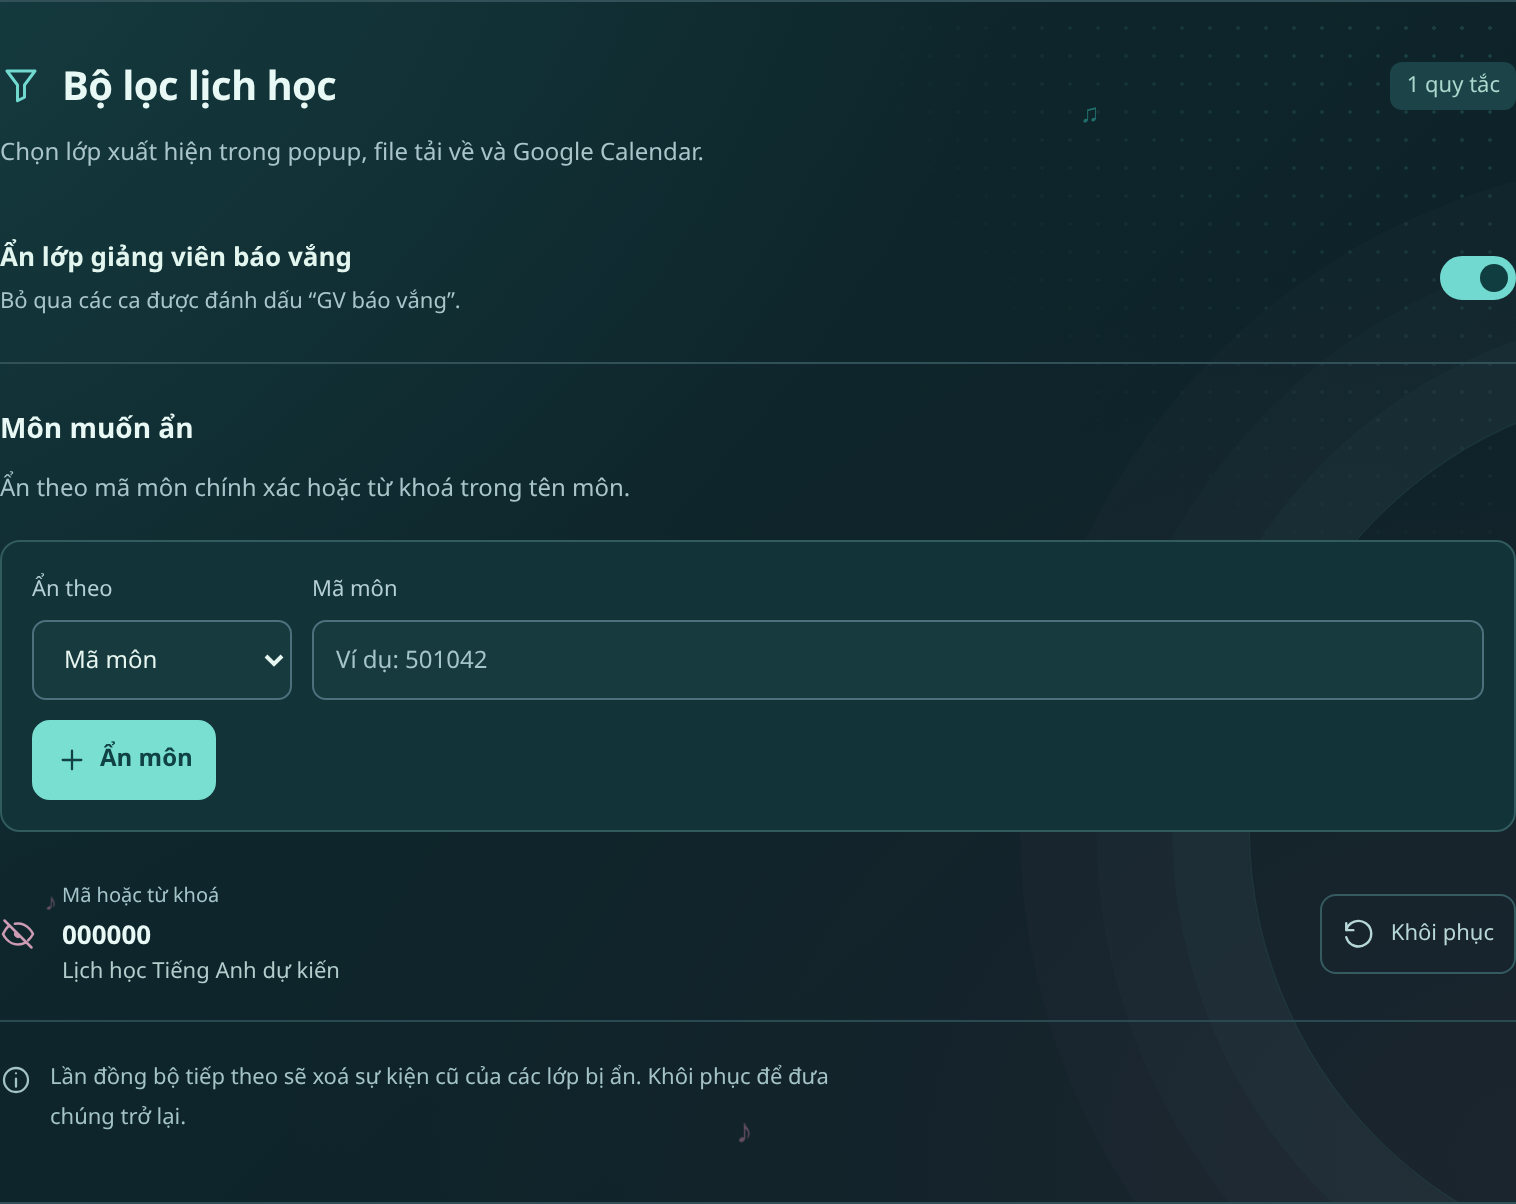
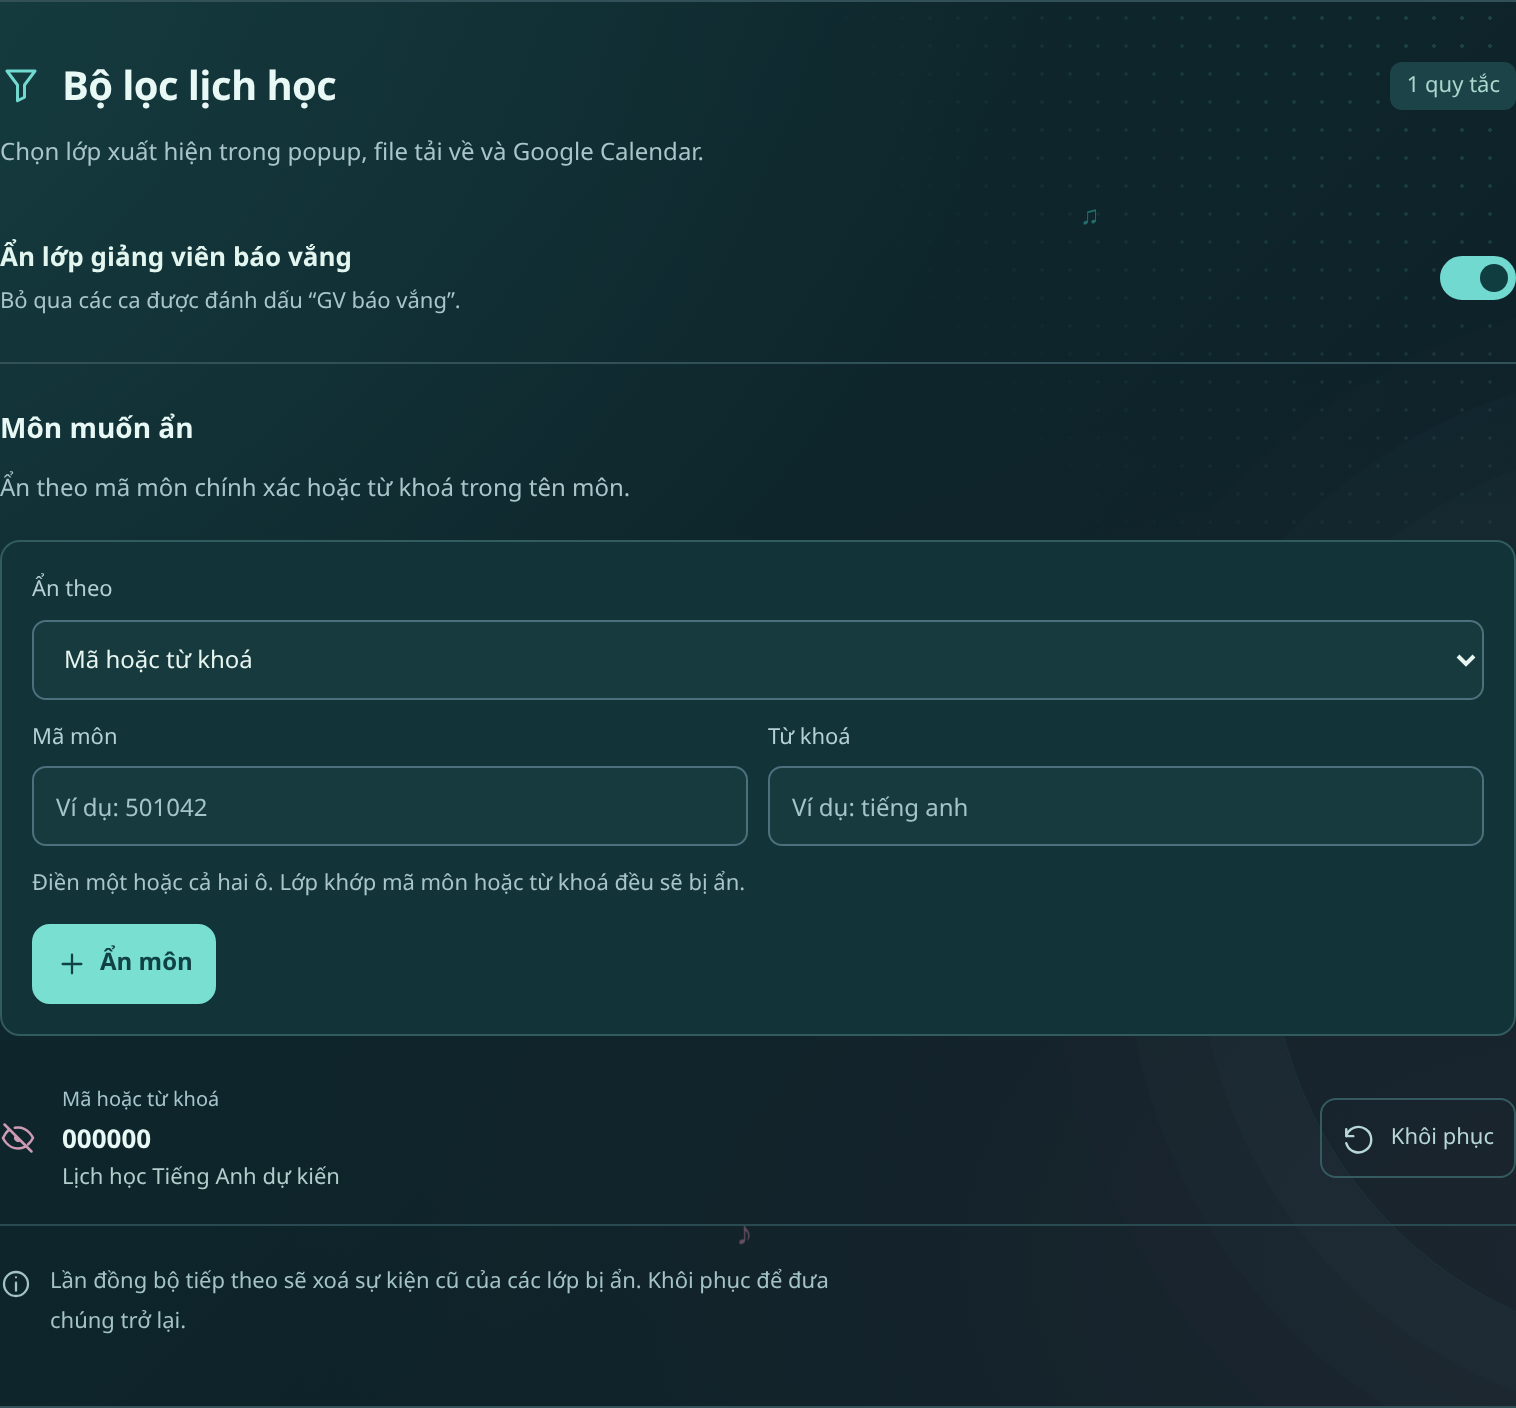
feat: separate code and keyword inputs in combined filter mode

diff --git a/options.js b/options.js
@@ -248,22 +248,38 @@ $('addRow').addEventListener('click', () => {
 });
 
 function updateFilterField() {
-  const code = $('filterType').value === 'code';
-  $('filterMatchLabel').textContent = tr($('filterType').value === 'legacy' ? 'Mã hoặc từ khoá' : code ? 'Mã môn' : 'Tên chứa');
-  $('filterMatch').placeholder = tr($('filterType').value === 'legacy' ? 'Ví dụ: 501042 hoặc tiếng anh' : code ? 'Ví dụ: 501042' : 'Ví dụ: tiếng anh');
+  const mode = $('filterType').value, combined = mode === 'legacy';
+  const code = mode !== 'name';
+  $('filterForm').dataset.mode = mode;
+  $('filterMatchLabel').textContent = tr(code ? 'Mã môn' : 'Tên chứa');
+  $('filterMatch').placeholder = tr(code ? 'Ví dụ: 501042' : 'Ví dụ: tiếng anh');
+  $('filterKeywordField').hidden = !combined;
+  $('filterKeyword').disabled = !combined;
+  $('filterKeyword').placeholder = tr('Ví dụ: tiếng anh');
+  $('filterCombinedHint').hidden = !combined;
+  $('filterMatch').setAttribute('aria-describedby', combined ? 'filterError filterCombinedHint' : 'filterError');
 }
-$('filterType').addEventListener('change', () => { updateFilterField(); $('filterError').hidden = true; $('filterMatch').removeAttribute('aria-invalid'); });
-$('filterMatch').addEventListener('input', () => { $('filterError').hidden = true; $('filterMatch').removeAttribute('aria-invalid'); });
+function clearFilterError() {
+  $('filterError').hidden = true;
+  for (const id of ['filterMatch', 'filterKeyword']) $(id).removeAttribute('aria-invalid');
+}
+$('filterType').addEventListener('change', () => { updateFilterField(); clearFilterError(); });
+for (const id of ['filterMatch', 'filterKeyword']) $(id).addEventListener('input', clearFilterError);
 $('filterForm').addEventListener('submit', event => {
   event.preventDefault();
-  const match = cleanStr($('filterMatch').value, 100), type = $('filterType').value;
-  const error = blacklist.length >= 100 ? 'Tối đa 100 quy tắc. Khôi phục một môn trước khi thêm.' : !match ? 'Nhập mã môn hoặc từ khoá để ẩn.' : blacklist.some(b => b.match.toLowerCase() === match.toLowerCase() && ruleType(b) === type) ? 'Quy tắc này đã có trong danh sách.' : '';
+  const mode = $('filterType').value;
+  const candidates = [{match: cleanStr($('filterMatch').value, 100), type: mode === 'legacy' ? 'code' : mode, field:'filterMatch'}];
+  if (mode === 'legacy') candidates.push({match:cleanStr($('filterKeyword').value, 100), type:'name', field:'filterKeyword'});
+  const rules = candidates.filter(rule => rule.match);
+  const duplicate = rules.find(rule => blacklist.some(b => b.match.toLowerCase() === rule.match.toLowerCase() && ruleType(b) === rule.type));
+  const error = blacklist.length + rules.length > 100 ? 'Tối đa 100 quy tắc. Khôi phục một môn trước khi thêm.' : !rules.length ? 'Nhập mã môn hoặc từ khoá để ẩn.' : duplicate ? 'Quy tắc này đã có trong danh sách.' : '';
   if (error) {
     $('filterError').textContent = tr(error); $('filterError').hidden = false;
-    $('filterMatch').setAttribute('aria-invalid', 'true'); $('filterMatch').focus(); return;
+    const field = $(duplicate ? duplicate.field : 'filterMatch');
+    field.setAttribute('aria-invalid', 'true'); field.focus(); return;
   }
-  blacklist.push({ match, name: '', ...(type === 'legacy' ? {} : {type}) });
-  $('filterMatch').value = ''; $('filterMatch').removeAttribute('aria-invalid');
+  blacklist.push(...rules.map(({match, type}) => ({match, name:'', type})));
+  $('filterMatch').value = ''; $('filterKeyword').value = ''; clearFilterError();
   save(); render(); $('filterMatch').focus();
 });
 

diff --git a/options.html b/options.html
@@ -66,6 +66,8 @@
       <form id="filterForm" class="filter-composer">
         <div class="filter-field"><label for="filterType"><span data-i18n="Ẩn theo">Match by</span></label><select id="filterType"><option value="legacy" data-i18n="Mã hoặc từ khoá">Code or keyword</option><option value="code" data-i18n="Mã môn">Subject code</option><option value="name" data-i18n="Tên chứa">Name contains</option></select></div>
         <div class="filter-field filter-value"><label for="filterMatch" id="filterMatchLabel"><span data-i18n="Mã môn">Subject code</span></label><input type="text" id="filterMatch" maxlength="100" placeholder="e.g. 501042" spellcheck="false" aria-describedby="filterError"></div>
+        <div class="filter-field" id="filterKeywordField" hidden><label for="filterKeyword" data-i18n="Từ khoá">Keyword</label><input type="text" id="filterKeyword" maxlength="100" spellcheck="false" aria-describedby="filterError filterCombinedHint"></div>
+        <p id="filterCombinedHint" class="filter-combined-hint" data-i18n="Điền một hoặc cả hai ô. Lớp khớp mã môn hoặc từ khoá đều sẽ bị ẩn." hidden>Fill either or both fields. Classes matching the code or keyword will be hidden.</p>
         <button class="btn" id="addBlack" type="submit"><span data-icon="plus" aria-hidden="true"></span><span data-i18n="Ẩn môn">Hide subject</span></button>
         <p id="filterError" class="field-error" role="status" hidden></p>
       </form>

diff --git a/theme.css b/theme.css
@@ -120,3 +120,10 @@ body{isolation:isolate}
 /* A slow, quiet pulse; animate the ring layer without repainting its shadows. */
 @media(prefers-reduced-motion:no-preference){.settings-page:not(.motion-off):after{animation:sound-wave-pulse 9s ease-in-out infinite;transform-origin:center}}
 @keyframes sound-wave-pulse{0%,100%{transform:scale(.94);opacity:.6}50%{transform:scale(1.06);opacity:1}}
+
+/* Combined filtering keeps code and name matching explicit and independent. */
+.settings-page .filter-composer[data-mode=legacy]{grid-template-columns:minmax(0,1fr) minmax(0,1fr)}
+.settings-page .filter-composer[data-mode=legacy]>.filter-field:first-child{grid-column:1/-1}
+.settings-page .filter-composer[data-mode=legacy] .btn{grid-column:1/-1;justify-self:start}
+.filter-combined-hint{grid-column:1/-1;margin:0;color:#a9c5ca;font-size:11px;line-height:1.7}
+@media(max-width:760px){.settings-page .filter-composer[data-mode=legacy]{grid-template-columns:1fr}}

diff --git a/i18n.js b/i18n.js
@@ -1,5 +1,7 @@
 // UI translations only. Subject names, filters and exported event identities stay unchanged.
 const UI_EN = {
+  "Từ khoá": "Keyword",
+  "Điền một hoặc cả hai ô. Lớp khớp mã môn hoặc từ khoá đều sẽ bị ẩn.": "Fill either or both fields. Classes matching the code or keyword will be hidden.",
   "Ví dụ: 501042 hoặc tiếng anh": "e.g. 501042 or tiếng anh",
   "Xem bộ lọc": "Review filter",
   "Tối đa 100 quy tắc. Khôi phục một môn trước khi thêm.": "Maximum 100 rules. Restore a subject before adding another.",
